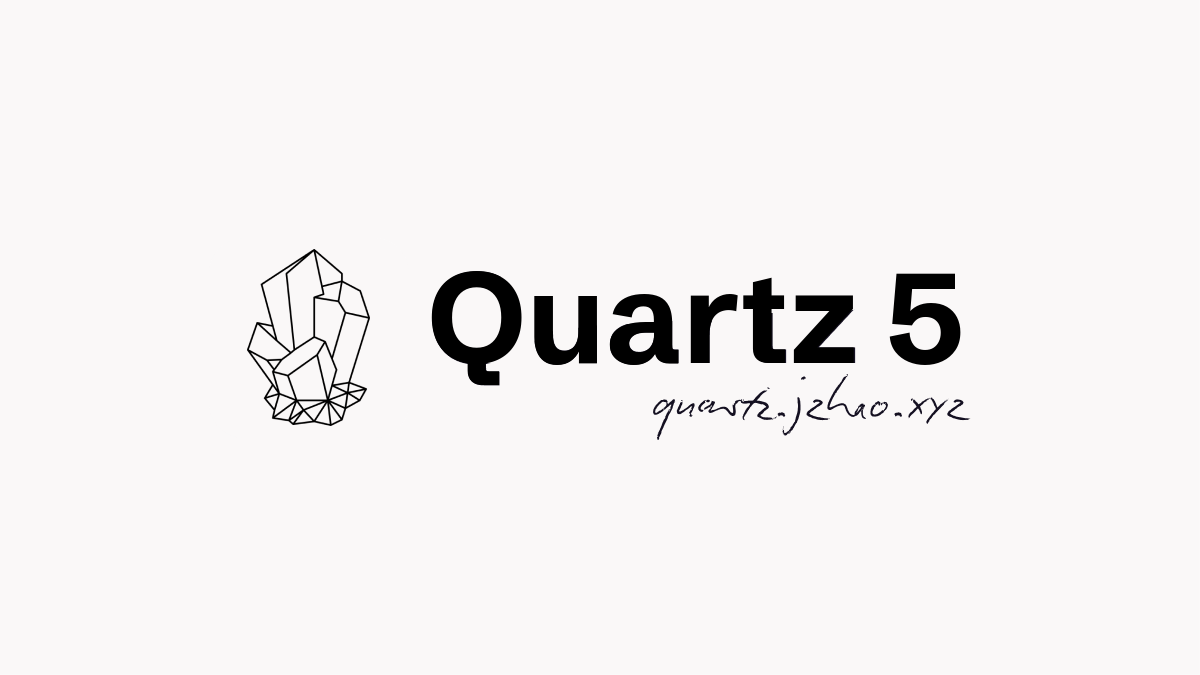
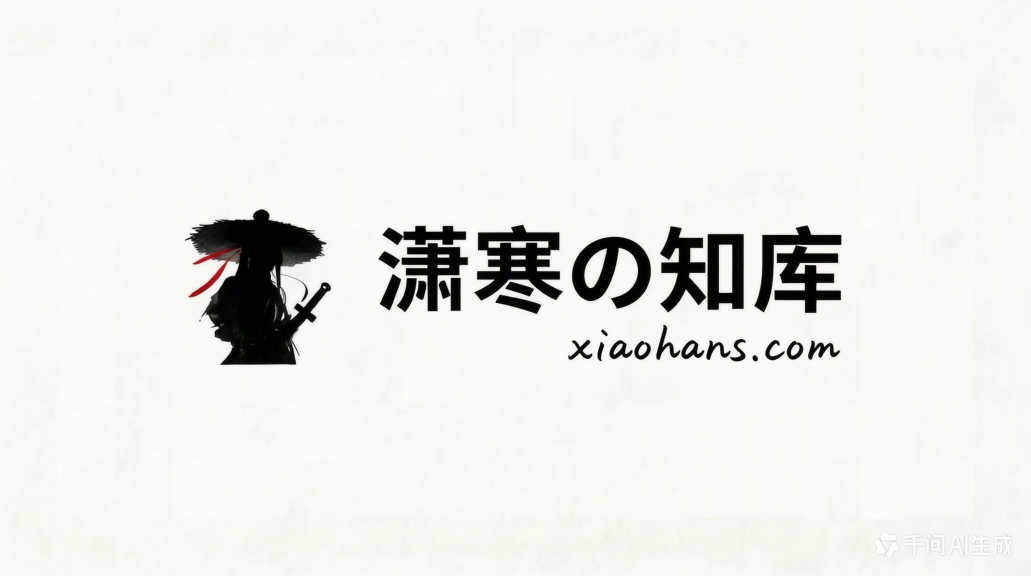
新增潇寒介绍页与留言板、左上角头像样式，更新站点图标与首页

Changed region(s): [[0.1862, 0.3438, 0.838, 0.6562]]

diff --git a/quartz/styles/custom.scss b/quartz/styles/custom.scss
@@ -1,3 +1,26 @@
 @use "./variables.scss" as *;
 
 // put your custom CSS here!
+
+// 左上角站名前加圆形头像
+.page-title a {
+  display: flex;
+  align-items: center;
+  gap: 0.5rem;
+}
+
+.page-title a::before {
+  content: "";
+  flex-shrink: 0;
+  width: 2rem;
+  height: 2rem;
+  border-radius: 50%;
+  background-image: url("/static/icon.png");
+  background-size: cover;
+  background-position: center;
+  box-shadow: 0 0 0 2px var(--lightgray);
+}
+
+.page-title a:hover::before {
+  box-shadow: 0 0 0 2px var(--secondary);
+}

diff --git a/content/成都校区新生指南/4.第四章：常用软件.md b/content/成都校区新生指南/4.第四章：常用软件.md
@@ -55,7 +55,7 @@ description: 成都校区新生指南，大学必备软件与平台指南
 ## 🎓 学习平台
 
 > [!note] 中国大学生慕课（MOOC）
-> 中国大学生慕课：现在应该进行的是暑期计算机免修课，这个后续再说，（==不过2025级新生好像没有免修了==）  
+> 中国大学生慕课：现在应该进行的是暑期计算机免修课，这个后续再说，（==不过2025级之后新生没有免修了，不过mooc这个软件还是经常用的==）  
 > 我们先不做讲述，首先先说慕课平台认证：点击我的，再点右上角的设置，然后往下翻到学校服务云进行认证，认证前是自己身份证后六位，这一步必须要进行认证哈，否则你的成绩会不被记录哦~  
 > 很多课程都需要使用中国大学生MOOC平台，学姐在这里说真心话，慕课平台的课不用认真看，把时长挂够了就行，慕课里的单元测试和一些学科的定期测试（比如高数）可以使用脚本自动答题（如果没有脚本可以用夸克悬浮窗什么的搜题）。  
 > 其实不要再问什么这个有用吗那个有用吗，他既然安排了就一定有他的道理，你不想学可以不学，没分而已，对自己负责就行。  
@@ -73,6 +73,10 @@ description: 成都校区新生指南，大学必备软件与平台指南
 > ~~飞书：可以联系校内的任何一个人，也可以使用飞书线上会议什么的，这个时候也是学校给大家注册和导入信息之后可以使用，认证方法就是点击头像点击西南石油大学即可，后续大概在军训期间或者军训之后就可以开通啦。~~  
 > ~~因为是校内一个比较重要的软件，我不过多讲述，因为用着用着就会了。飞书是很方便的办公软件，类似QQ，微信。~~  
 > ~~在开学后一段时间，辅导员会下发通知注册飞书。学生教职工的飞书是和学校绑定的，在飞书上可以根据姓名，学号，所属关系查到所有在校人员并直接沟通（发消息，拉群，打电话），部分重要消息会从飞书群发布。~~
+
+>[!important]  ==量子密信==
+>量子密信是校内交流工具，只要知道名字专业（专业主要是为了重名时筛人）即可直接通过量子密信查找人交流沟通，量子密信作为校内联络工具非常方便，使用也非常之多，特别是导员或者是课程的老师会大量使用量子密信来与学生交流沟通，对接工作，同时量子密信也能用于查看是否为本校学生，防范诈骗。
+新生可以先不着急，开学后辅导员会下发通知 进行量子密信的注册登录，认证的具体消息以辅导员下达的通知为准，时间大概在九月之内，九月班级群会发布大量的有用信息，大家需要多多关注
 
 > [!example] 易班
 > 易班：详见第一章认识易班
@@ -105,6 +109,11 @@ description: 成都校区新生指南，大学必备软件与平台指南
 > ~~大一上下学期都需要80公里，每天上限一圈2.4km，每天早八点前打卡有双倍（一定要好好录入人脸，扫不上很恼火的）。~~  
 > ~~乐健体育还会看到自己的体测成绩，体测成绩低于65不能评奖学金~~
 
+>[!important] ==体适能==
+>体适能APP中的阳光跑是体育成绩的重要组成部分，同时大学四年有规定总共需要跑多少公里，每一届的可能不太一样，具体公里数需要根据当年政策来定，体适能规定了范围为学校范围内可进行跑步，体适能设置为双达标原则，步数达标和里程数达标即可录入，有时间限制，不过时间较长，一般走路也可完成，步数限制为一千步，公里数为一千米，每日最多打卡2.4km，早上八点前打卡可获得双倍里程数。
+>体适能有暂停功能，长按结束建即可暂停，点击继续即可继续跑步，但是暂停时间不建议超过半个小时，当时间，步数或者是公里数为灰色时即为不达标，时间若短暂超出所给时间，可快速刷里程以延长限制时间。
+>开学后会通知注册账号，有专群负责解决问题，一般会发布文件教程至班群或专业群教授如何注册账号，并且告知课外健身跑截止时间，请务必注意截止时间，一旦错过无法补救，再次申明，课外健身跑是体育成绩的重要组成部分！大家也要多多锻炼身体，体测低于65无法评奖评优。
+
 ---
 
 ## 📜 信息与课程工具
@@ -116,8 +125,27 @@ description: 成都校区新生指南，大学必备软件与平台指南
 > fif口语、U校园：通用英语课和创新英语课需要用到的app，fif口语顾名思义读文章的（投机取巧小秘密：在豆包里面录入自己的声音，然后把文段复制，让豆包替你读。哈哈大家还是不要投机取巧比较好）。  
 > U校园是教程听力和四六级听力题目，还有上课课堂上做的练习
 
-> [!example] U易，U净
-> U易，U净：前面洗澡的热水，后面洗衣机，只能用银行卡充值。
+### 热水的使用
+
+> [!example] ~~U易，U净~~ **已废弃**
+> ~~U易，U净：前面洗澡的热水，后面洗衣机，只能用银行卡充值。~~
+
+>[!important] ==热水的使用==
+>关注公众号：西南石油大学后勤
+>点击服务大厅，里面可以充电费，买桶装饮用水，报修宿舍内部物件（要钱的哈）
+>点击热水淋浴，提前选择好宿舍楼栋及宿舍号，每次使用需要预支付十块钱，洗完澡后记得结束热水使用，剩余资金会原路退回，注意热水供应时间，超过供应时间不供水
+>
+>![[B24D24654054E1FA189D1F1231A74DEE.webp]]
+>
+>![[F68E2ECA35701A8ECE4F71773746BBBC.webp]]
+>
+>![[FD28DB215C66B8943D99FFCDFE9EDA05.webp]]
+>
+>![[E3555C3E64C066C8BE83AE88187B5BFC.webp]]
+>
+>![[024072CB39DCB121673EFE6B12A70937.webp]]
+>
+>![[63EB19025645A0FE9DFCB615E28C2EF9.webp]]
 
 ---
 

diff --git a/content/潇寒是谁？.md b/content/潇寒是谁？.md
@@ -1,0 +1,44 @@
+---
+title: 🥰🥰潇寒是谁？
+description: 关于站长的介绍与动态
+tags:
+  - 关于
+---
+
+<div style="text-align: center; margin: 2rem 0 1.5rem;">
+  <h1 style="font-size: 2.5em; margin-bottom: 0.3em; background: linear-gradient(135deg, #f5576c 0%, #f093fb 100%); -webkit-background-clip: text; -webkit-text-fill-color: transparent; background-clip: text;">🧑💻 潇寒是谁？</h1>
+  <p style="font-size: 1.2em; color: var(--darkgray); margin: 0;">👋 这里是站长「潇寒」的小站</p>
+</div>
+
+## ✨ 自我介绍
+
+大家好，我是**潇寒**，本站的站长，一名热爱技术与知识的在校生。
+
+- 📚 喜欢整理和分享学习笔记，本站收录了 **C 语言、单片机、高等数学、线性代数、电磁场** 等课程笔记
+- 🎓 整理了 [[成都校区新生指南/index|成都校区新生指南]]，帮助新生快速熟悉校园生活
+- ✍ 经营个人博客，记录技术折腾与学习心得
+- 💻 热爱折腾建站、Markdown 与 Obsidian等各类效率工具
+- 🚀 本站使用 [Quartz](https://quartz.jzhao.xyz/) 构建，源码托管于 GitHub
+
+## 📝 我的博客
+
+除了本站的笔记库，我还在博客里记录文字类的文章，欢迎来逛逛：
+
+<a href="https://log.xiaohans.xyz" target="_blank" style="display: block; text-decoration: none; border-radius: 12px; overflow: hidden; box-shadow: 0 4px 20px rgba(0,0,0,0.08); border: 1px solid var(--lightgray); padding: 1.25rem 1.5rem; background: linear-gradient(135deg, rgba(102,126,234,0.08) 0%, rgba(118,75,162,0.08) 100%); transition: transform 0.2s, box-shadow 0.2s;">
+  <p style="margin: 0 0 0.3rem; font-size: 1.15em; font-weight: bold; color: var(--dark);">🚀 潇寒的博客 <span style="font-weight: normal; font-size: 0.8em; color: var(--gray);">log.xiaohans.xyz</span></p>
+  <p style="margin: 0; font-size: 0.9em; color: var(--darkgray);">技术折腾与学习心得的自留地，点击前往 →</p>
+</a>
+
+## 📡 我的动态
+
+下面嵌入的是我的 **Memos 碎碎念**页面，记录日常想法和灵感，欢迎围观：
+
+<div style="border-radius: 12px; overflow: hidden; box-shadow: 0 4px 20px rgba(0,0,0,0.08); border: 1px solid var(--lightgray);">
+  <iframe src="https://xiaohans.xyz/explore" width="100%" height="600" allowtransparency="yes" allow="autoplay" frameborder="0" marginheight="0" marginwidth="0" scrolling="auto"></iframe>
+</div>
+
+<div style="text-align: center; margin-top: 1rem;">
+  <p style="font-size: 0.9em; color: var(--gray);">如果加载失败，可以<a href="https://xiaohans.xyz/explore" target="_blank">点击这里</a>直接访问 ～</p>
+</div>
+
+

diff --git a/content/index.md b/content/index.md
@@ -12,16 +12,19 @@ draft: false
 description: 关于潇寒智库
 ---
 
-## 🎓 欢迎来到潇寒智库
-### 本站更换域名为xiaohans.com
+## 🎓 欢迎来到潇寒の知库
+### 🔗 本站已更换域名为 xiaohans.com
 > [!important]
 > 手机端左上角是导航栏哦~电脑端食用效果更佳
 >
 >==本月热点：成都校区新生指南==
- >[[成都校区新生指南/index|index]]
- >==最新的美食攻略==
- >[[16.第十六章：美食攻略2026]]
+> [[成都校区新生指南/index|成都校区新生指南]]
+> ==最新的美食攻略==
+> [[16.第十六章：美食攻略2026]]
+>
+> 潇寒の知库运营组招人，有意向联系我 [[index#👤 关于站长与团队]]
 
+>[!check] [[潇寒是谁？]] ｜ 💬 欢迎来[[留言板]]唠唠嗑
 
 ---
 
@@ -36,14 +39,14 @@ description: 关于潇寒智库
 > 🔗 https://log.xiaohans.xyz 潇寒的日志  
 > 📮 联系站长：xiaohans@xiaohans.xyz  
 > 🧑💻 站长：潇寒 paper龙  
-> 🗓 更新时间：2024-07-04
+> 🗓 更新时间：2026-08-12
 
 ---
 
 ## ⏳ 加载提示
 > [!tip] 加载提醒  
 > 📌 首次加载时间略长，最长可能达到 30 秒，请耐心等待  
-> 🔖 本站为 **潇寒paper龙** 专属知识库，合作团队为小羊姐等人
+> 🔖 本站为 **潇寒paper龙** 专属知识库，👥 合作团队为小羊姐等人
 > ✉ 欢迎投稿，详情见下方联系方式
 
 ---
@@ -52,6 +55,7 @@ description: 关于潇寒智库
 
 > [!important] 关于我们  
 > 👤 站长：潇寒 paper龙  
+> 👥 合作团队为小羊姐等人
 > 💬 QQ：1632351458  
 > 📮 邮箱：xiaohans@xiaohans.xyz  
 > 📝 Blog: https://log.xiaohans.xyz  

diff --git a/content/留言板.md b/content/留言板.md
@@ -1,5 +1,5 @@
 ---
-title: 💬留言板💌
+title: 💬💌留言板
 description: 欢迎留言交流！
 tags:
   - 留言板
@@ -13,4 +13,9 @@ tags:
 
 <div style="border-radius: 12px; overflow: hidden; box-shadow: 0 4px 20px rgba(0,0,0,0.08); border: 1px solid var(--lightgray);">
   <iframe src="https://www3.cbox.ws/box/?boxid=3539554&boxtag=BCIaIE" width="100%" height="500" allowtransparency="yes" allow="autoplay" frameborder="0" marginheight="0" marginwidth="0" scrolling="auto"></iframe>
+</div>
+
+<div style="margin-top: 1.5rem; padding: 1rem 1.25rem; border-radius: 10px; background: var(--highlight); border-left: 4px solid #f5a623; font-size: 0.9em; color: var(--darkgray);">
+  <p style="margin: 0 0 0.5rem;"><strong>⚠ 留言须知</strong></p>
+  <p style="margin: 0;">留言时请自觉遵守<strong>法律法规</strong>，文明发言。请勿发布违法违规、淫秽色情、暴力恐怖、谣言诈骗、人身攻击或侵犯他人权益的内容。违规留言将被删除，情节严重的站长保留追究法律责任的权利。</p>
 </div>

diff --git a/content/成都校区新生指南/index.md b/content/成都校区新生指南/index.md
@@ -30,6 +30,7 @@ description: 成都校区新生指南
 [[14.第十四章：其他一些教程]]
 [[15.第十五章：美食攻略2025]]
 [[16.第十六章：美食攻略2026]]
+[[17.第十七章：易班入学题库]]
 
 ## 前言
 > [!info] 文章作者

diff --git a/content/成都校区新生指南/9.第九章：转专业.md b/content/成都校区新生指南/9.第九章：转专业.md
@@ -12,7 +12,7 @@ description: 成都校区新生指南-转专业
 ---
 
 >[!warning]
->本章内容来自学校官方 
+>本章内容来自学校官方，请注意时效性
 
 # 校本部转专业选取课程及成绩计算规则
 
